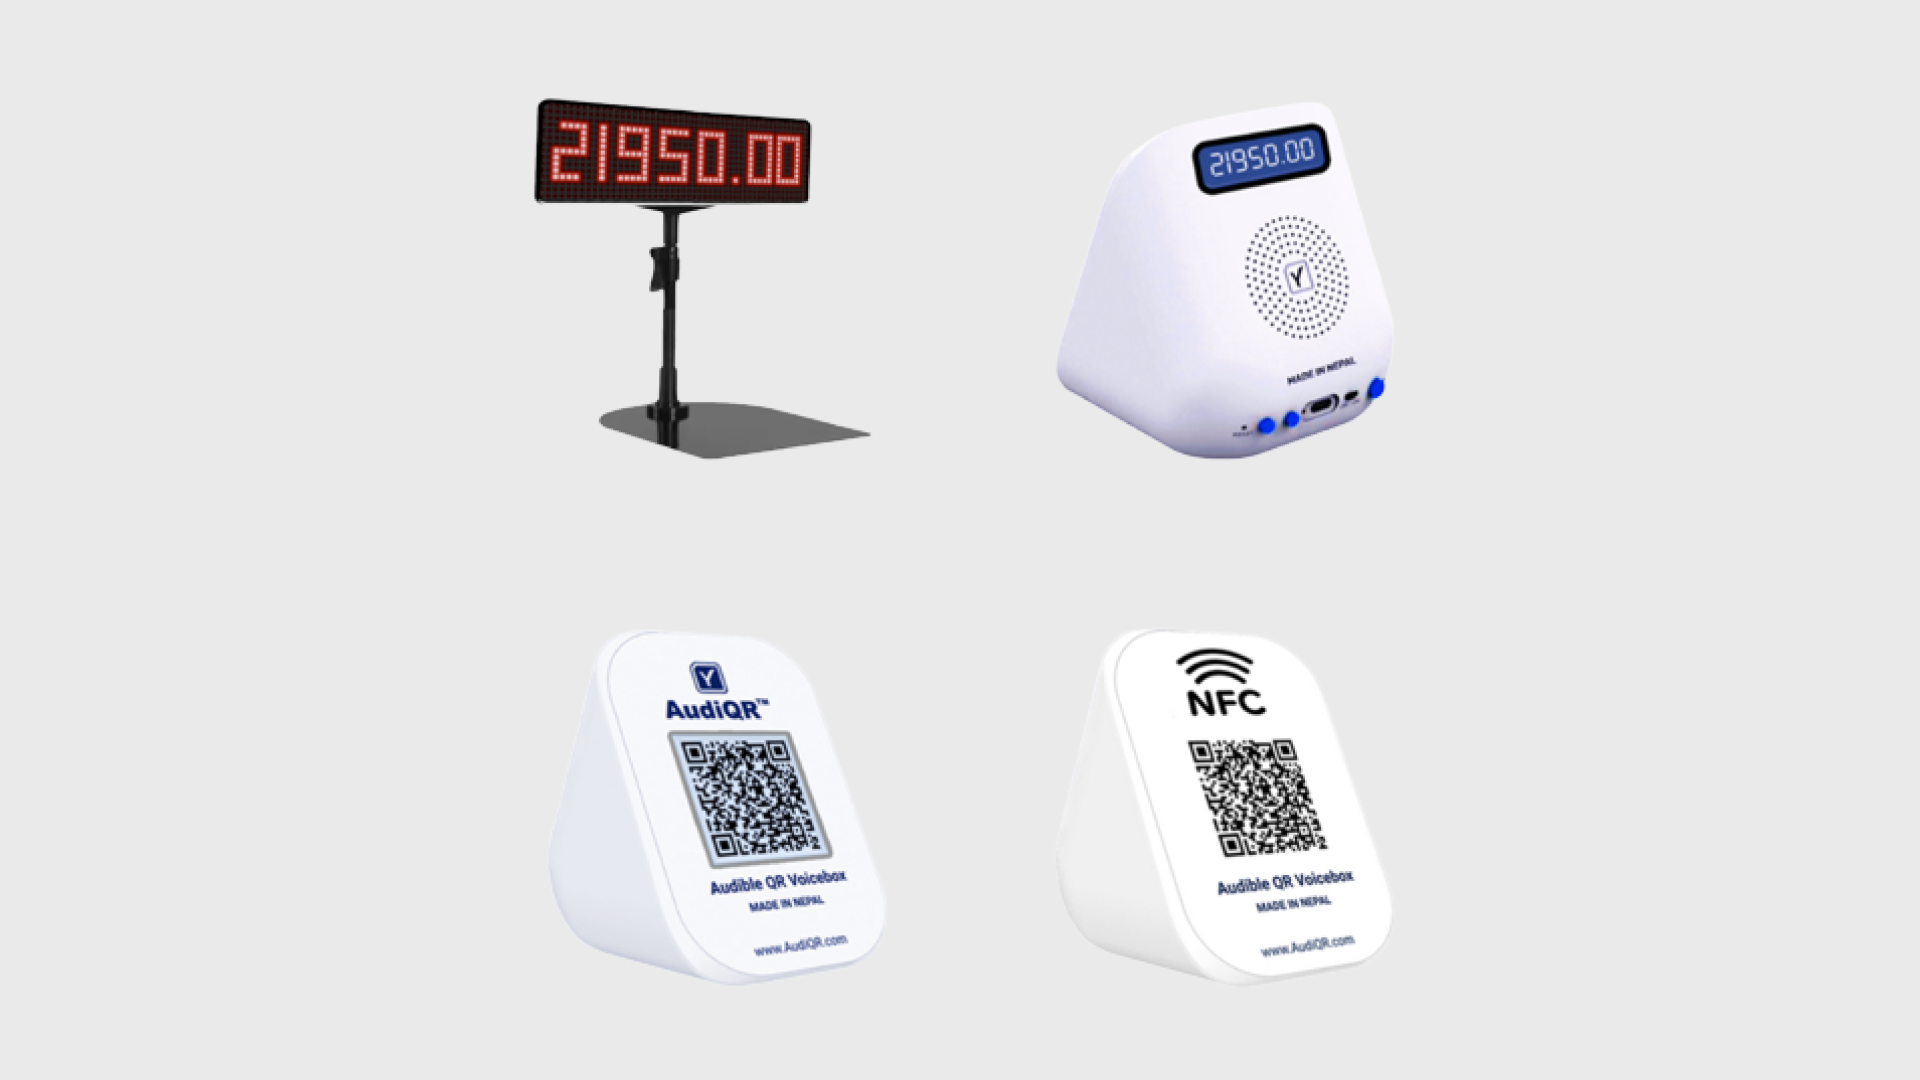
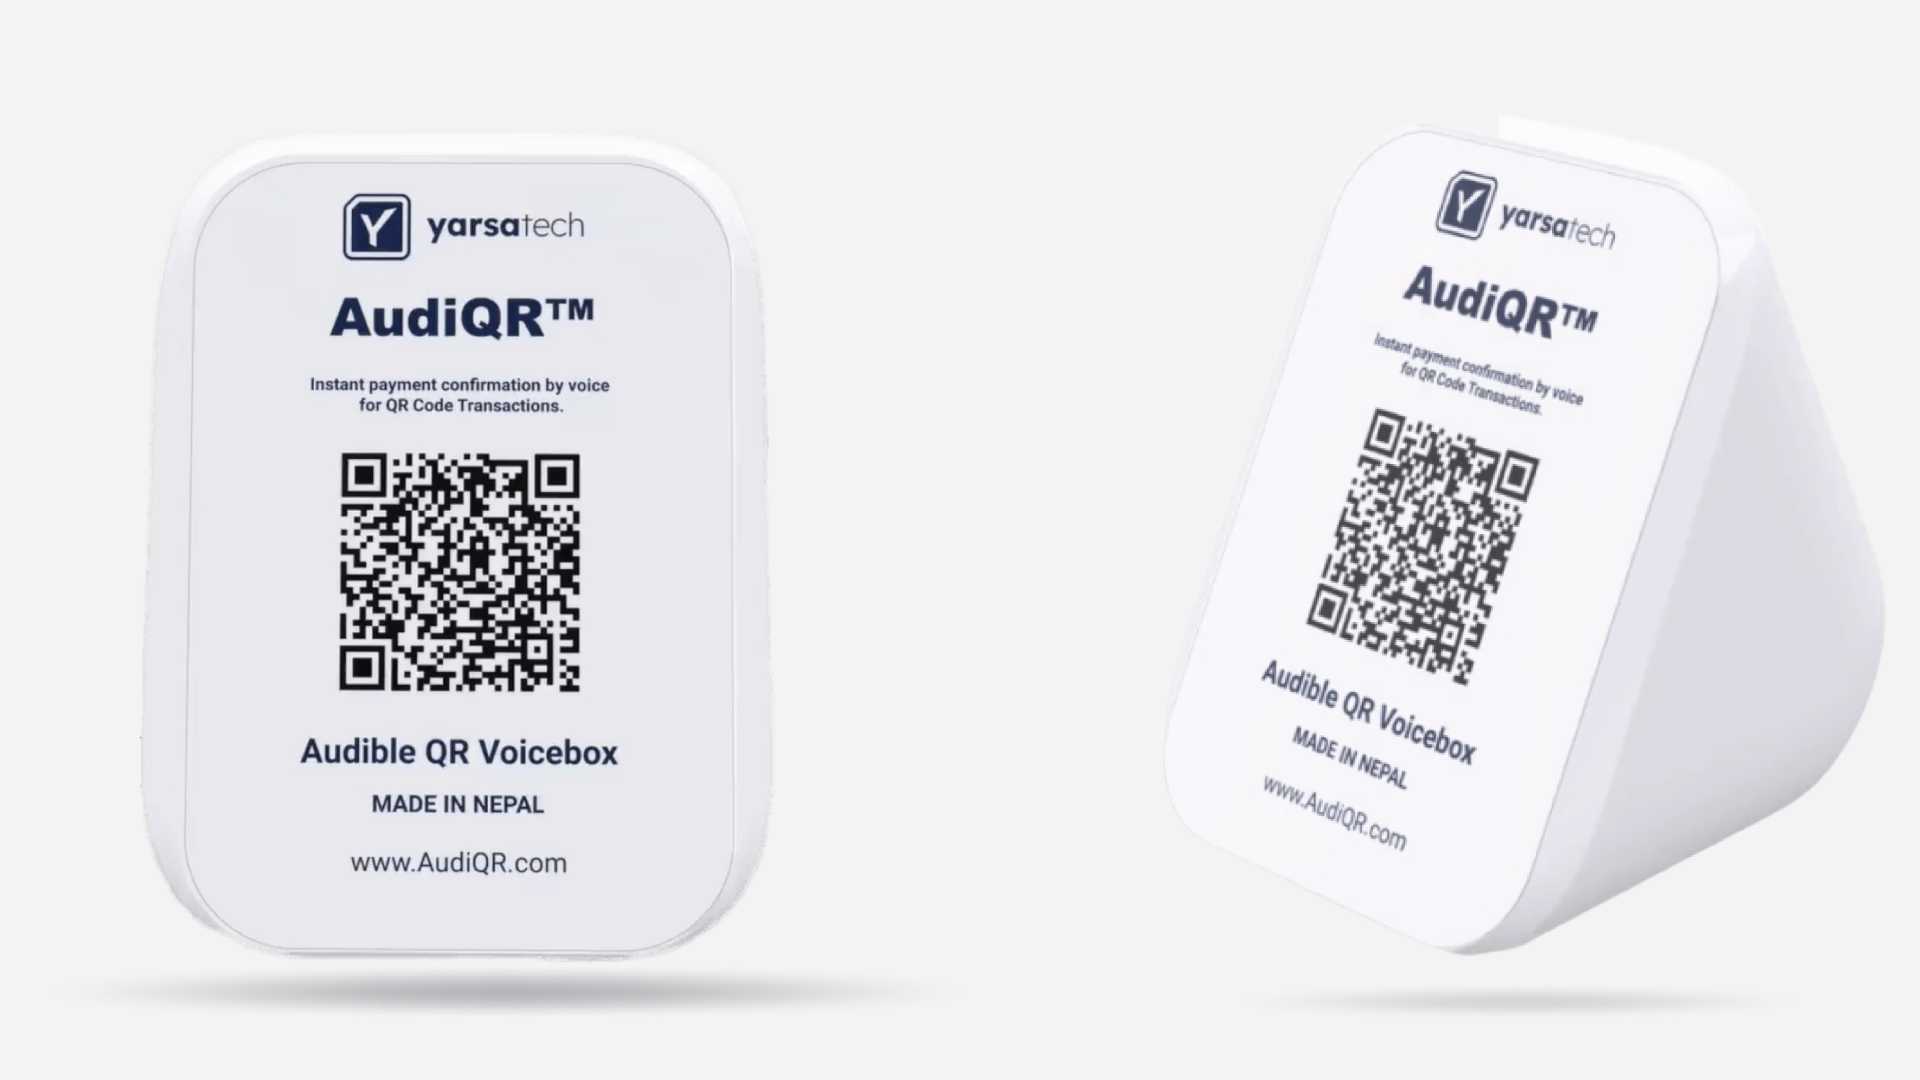
add and update of audiqr

diff --git a/_projects/app-03-Audiqr.md b/_projects/app-03-Audiqr.md
@@ -1,14 +1,13 @@
 ---
 title: AudiQR™
 date: 2022-01-09 08:01:35 +0300
-subtitle: uninterrupt your internet forever
-image: '/images/nizi.png'
+subtitle: Payment Notifier
+image: '/images/audiqr.png'
 projecttype: app
 ---
 
-To rescue the internet-wandering technophiles everywhere from the rude interruptions of reality, Yarsa Tech is working tirelessly, building an awesome, easily-installed piece of power backup hardware that lets the internet work for hours in the likely case of unforeseen power losses, ensuring that no video call loses connection, no game is lost, no interview cut short
+AudiQR™ is a result of several months of research and development in Nepal by the finest mechanical and electronic engineers. It is designed to be robust, reliable and easy to use.
 
-This project is an exploration into power-management for portable devices, and we
-plan on using what we learn to create even cooler portable devices.
+High Quality QR Payment Confirmation Solution with secure cloud dashboard, instant merchant onboarding, long-term support, customizable branding and features for an affordable price.
 
-![routerups](/images/routerups.webp)
+![routerups](/images/audiqr.png)
